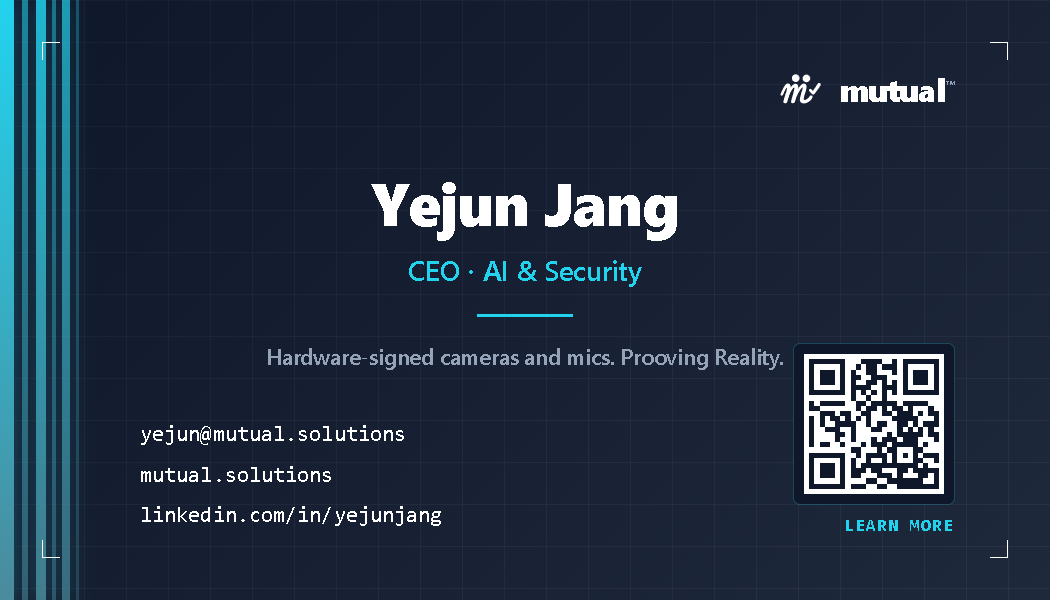
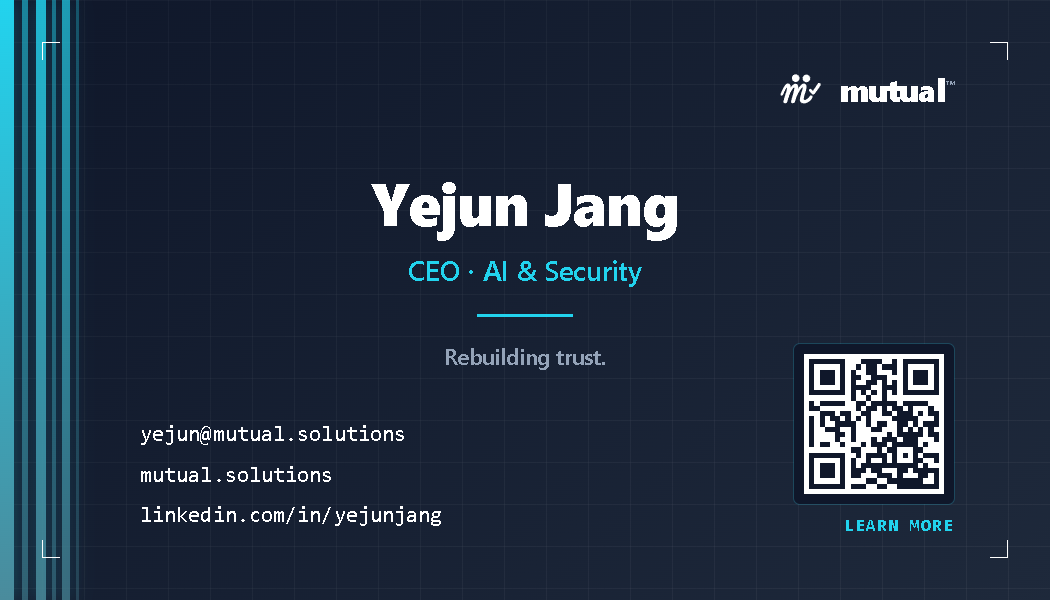
Lab Edge · slogan → 'Rebuilding trust.'
Was: 'Hardware-signed cameras and mics. Prooving Reality.'
Now: 'Rebuilding trust.'

Cleaner two-word line under the divider on the English front.

Changed region(s): [[0.2438, 0.57, 0.7314, 0.63]]

diff --git a/.canva-build/v-tech-edge-capture-front-alex.html b/.canva-build/v-tech-edge-capture-front-alex.html
@@ -33,7 +33,7 @@ html,body{width:1050px;height:600px;background:#020617;font-family:'Inter','Sego
     <div style="font-weight:800;font-size:60px;letter-spacing:-1.8px;color:#fff;line-height:1">Jihoon (Alex) Park</div>
     <div style="margin-top:18px;font-weight:600;font-size:28px;color:#22d3ee;letter-spacing:-0.3px">CTO · Hardware</div>
     <div style="margin:26px auto 0;width:96px;height:3px;background:#22d3ee"></div>
-    <div style="margin-top:24px;padding:0 96px;font-weight:500;font-size:22px;color:#94a3b8;letter-spacing:-0.2px;line-height:1.4;font-family:'Playfair Display','Georgia','Times New Roman',serif;">Hardware-signed cameras and mics. Prooving Reality.</div>
+    <div style="margin-top:24px;padding:0 96px;font-weight:500;font-size:22px;color:#94a3b8;letter-spacing:-0.2px;line-height:1.4;font-family:'Playfair Display','Georgia','Times New Roman',serif;">Rebuilding trust.</div>
   </div>
 
   <!-- contact mono block (URLs/emails are language-neutral identifiers) -->

diff --git a/.canva-build/v-tech-edge-fek1-front-alex.html b/.canva-build/v-tech-edge-fek1-front-alex.html
@@ -33,7 +33,7 @@ html,body{width:1050px;height:600px;background:#020617;font-family:'Inter','Sego
     <div style="font-weight:800;font-size:60px;letter-spacing:-1.8px;color:#fff;line-height:1">Jihoon (Alex) Park</div>
     <div style="margin-top:18px;font-weight:600;font-size:28px;color:#22d3ee;letter-spacing:-0.3px">CTO · Hardware</div>
     <div style="margin:26px auto 0;width:96px;height:3px;background:#22d3ee"></div>
-    <div style="margin-top:24px;padding:0 96px;font-weight:500;font-size:22px;color:#94a3b8;letter-spacing:-0.2px;line-height:1.4;font-family:'Playfair Display','Georgia','Times New Roman',serif;">Hardware-signed cameras and mics. Prooving Reality.</div>
+    <div style="margin-top:24px;padding:0 96px;font-weight:500;font-size:22px;color:#94a3b8;letter-spacing:-0.2px;line-height:1.4;font-family:'Playfair Display','Georgia','Times New Roman',serif;">Rebuilding trust.</div>
   </div>
 
   <!-- contact mono block (URLs/emails are language-neutral identifiers) -->

diff --git a/.canva-build/v-tech-edge-capture-front-yejun.html b/.canva-build/v-tech-edge-capture-front-yejun.html
@@ -33,7 +33,7 @@ html,body{width:1050px;height:600px;background:#020617;font-family:'Inter','Sego
     <div style="font-weight:800;font-size:60px;letter-spacing:-1.8px;color:#fff;line-height:1">Yejun Jang</div>
     <div style="margin-top:18px;font-weight:600;font-size:28px;color:#22d3ee;letter-spacing:-0.3px">CEO · AI & Security</div>
     <div style="margin:26px auto 0;width:96px;height:3px;background:#22d3ee"></div>
-    <div style="margin-top:24px;padding:0 96px;font-weight:500;font-size:22px;color:#94a3b8;letter-spacing:-0.2px;line-height:1.4;font-family:'Playfair Display','Georgia','Times New Roman',serif;">Hardware-signed cameras and mics. Prooving Reality.</div>
+    <div style="margin-top:24px;padding:0 96px;font-weight:500;font-size:22px;color:#94a3b8;letter-spacing:-0.2px;line-height:1.4;font-family:'Playfair Display','Georgia','Times New Roman',serif;">Rebuilding trust.</div>
   </div>
 
   <!-- contact mono block (URLs/emails are language-neutral identifiers) -->

diff --git a/.canva-build/v-tech-edge-fek1-front-yejun.html b/.canva-build/v-tech-edge-fek1-front-yejun.html
@@ -33,7 +33,7 @@ html,body{width:1050px;height:600px;background:#020617;font-family:'Inter','Sego
     <div style="font-weight:800;font-size:60px;letter-spacing:-1.8px;color:#fff;line-height:1">Yejun Jang</div>
     <div style="margin-top:18px;font-weight:600;font-size:28px;color:#22d3ee;letter-spacing:-0.3px">CEO · AI & Security</div>
     <div style="margin:26px auto 0;width:96px;height:3px;background:#22d3ee"></div>
-    <div style="margin-top:24px;padding:0 96px;font-weight:500;font-size:22px;color:#94a3b8;letter-spacing:-0.2px;line-height:1.4;font-family:'Playfair Display','Georgia','Times New Roman',serif;">Hardware-signed cameras and mics. Prooving Reality.</div>
+    <div style="margin-top:24px;padding:0 96px;font-weight:500;font-size:22px;color:#94a3b8;letter-spacing:-0.2px;line-height:1.4;font-family:'Playfair Display','Georgia','Times New Roman',serif;">Rebuilding trust.</div>
   </div>
 
   <!-- contact mono block (URLs/emails are language-neutral identifiers) -->

diff --git a/.canva-build/v-tech-edge-dual-front-alex.html b/.canva-build/v-tech-edge-dual-front-alex.html
@@ -31,7 +31,7 @@ html,body{width:1050px;height:600px;background:#0f172a;font-family:'Inter','Sego
     <div style="font-weight:800;font-size:60px;letter-spacing:-1.8px;color:#fff;line-height:1">Jihoon (Alex) Park</div>
     <div style="margin-top:18px;font-weight:600;font-size:28px;color:#22d3ee;letter-spacing:-0.3px">CTO · Hardware</div>
     <div style="margin:26px auto 0;width:96px;height:3px;background:#22d3ee"></div>
-    <div style="margin-top:24px;padding:0 96px;font-weight:500;font-size:22px;color:#94a3b8;letter-spacing:-0.2px;line-height:1.4;">Hardware-signed cameras and mics. Prooving Reality.</div>
+    <div style="margin-top:24px;padding:0 96px;font-weight:500;font-size:22px;color:#94a3b8;letter-spacing:-0.2px;line-height:1.4;">Rebuilding trust.</div>
   </div>
 
   <!-- contact mono block (URLs/emails are language-neutral identifiers) -->

diff --git a/.canva-build/v-tech-edge-frame-front-alex.html b/.canva-build/v-tech-edge-frame-front-alex.html
@@ -36,7 +36,7 @@ html,body{width:1050px;height:600px;background:#0f172a;font-family:'Inter','Sego
     <div style="font-weight:800;font-size:60px;letter-spacing:-1.8px;color:#fff;line-height:1">Jihoon (Alex) Park</div>
     <div style="margin-top:18px;font-weight:600;font-size:28px;color:#22d3ee;letter-spacing:-0.3px">CTO · Hardware</div>
     <div style="margin:26px auto 0;width:96px;height:3px;background:#22d3ee"></div>
-    <div style="margin-top:24px;padding:0 96px;font-weight:500;font-size:22px;color:#94a3b8;letter-spacing:-0.2px;line-height:1.4;">Hardware-signed cameras and mics. Prooving Reality.</div>
+    <div style="margin-top:24px;padding:0 96px;font-weight:500;font-size:22px;color:#94a3b8;letter-spacing:-0.2px;line-height:1.4;">Rebuilding trust.</div>
   </div>
 
   <!-- contact mono block (URLs/emails are language-neutral identifiers) -->

diff --git a/.canva-build/v-tech-edge-halo-front-alex.html b/.canva-build/v-tech-edge-halo-front-alex.html
@@ -33,7 +33,7 @@ html,body{width:1050px;height:600px;background:#0f172a;font-family:'Inter','Sego
     <div style="font-weight:800;font-size:60px;letter-spacing:-1.8px;color:#fff;line-height:1">Jihoon (Alex) Park</div>
     <div style="margin-top:18px;font-weight:600;font-size:28px;color:#22d3ee;letter-spacing:-0.3px">CTO · Hardware</div>
     <div style="margin:26px auto 0;width:96px;height:3px;background:#22d3ee"></div>
-    <div style="margin-top:24px;padding:0 96px;font-weight:500;font-size:22px;color:#94a3b8;letter-spacing:-0.2px;line-height:1.4;">Hardware-signed cameras and mics. Prooving Reality.</div>
+    <div style="margin-top:24px;padding:0 96px;font-weight:500;font-size:22px;color:#94a3b8;letter-spacing:-0.2px;line-height:1.4;">Rebuilding trust.</div>
   </div>
 
   <!-- contact mono block (URLs/emails are language-neutral identifiers) -->

diff --git a/.canva-build/v-tech-edge-notch-front-alex.html b/.canva-build/v-tech-edge-notch-front-alex.html
@@ -39,7 +39,7 @@ html,body{width:1050px;height:600px;background:#0f172a;font-family:'Inter','Sego
     <div style="font-weight:800;font-size:60px;letter-spacing:-1.8px;color:#fff;line-height:1">Jihoon (Alex) Park</div>
     <div style="margin-top:18px;font-weight:600;font-size:28px;color:#22d3ee;letter-spacing:-0.3px">CTO · Hardware</div>
     <div style="margin:26px auto 0;width:96px;height:3px;background:#22d3ee"></div>
-    <div style="margin-top:24px;padding:0 96px;font-weight:500;font-size:22px;color:#94a3b8;letter-spacing:-0.2px;line-height:1.4;">Hardware-signed cameras and mics. Prooving Reality.</div>
+    <div style="margin-top:24px;padding:0 96px;font-weight:500;font-size:22px;color:#94a3b8;letter-spacing:-0.2px;line-height:1.4;">Rebuilding trust.</div>
   </div>
 
   <!-- contact mono block (URLs/emails are language-neutral identifiers) -->

diff --git a/.canva-build/v-tech-edge-pulse-front-alex.html b/.canva-build/v-tech-edge-pulse-front-alex.html
@@ -29,7 +29,7 @@ html,body{width:1050px;height:600px;background:#0f172a;font-family:'Inter','Sego
     <div style="font-weight:800;font-size:60px;letter-spacing:-1.8px;color:#fff;line-height:1">Jihoon (Alex) Park</div>
     <div style="margin-top:18px;font-weight:600;font-size:28px;color:#22d3ee;letter-spacing:-0.3px">CTO · Hardware</div>
     <div style="margin:26px auto 0;width:96px;height:3px;background:#22d3ee"></div>
-    <div style="margin-top:24px;padding:0 96px;font-weight:500;font-size:22px;color:#94a3b8;letter-spacing:-0.2px;line-height:1.4;">Hardware-signed cameras and mics. Prooving Reality.</div>
+    <div style="margin-top:24px;padding:0 96px;font-weight:500;font-size:22px;color:#94a3b8;letter-spacing:-0.2px;line-height:1.4;">Rebuilding trust.</div>
   </div>
 
   <!-- contact mono block (URLs/emails are language-neutral identifiers) -->

diff --git a/.canva-build/v-tech-edge-stack-front-alex.html b/.canva-build/v-tech-edge-stack-front-alex.html
@@ -29,7 +29,7 @@ html,body{width:1050px;height:600px;background:#0f172a;font-family:'Inter','Sego
     <div style="font-weight:800;font-size:60px;letter-spacing:-1.8px;color:#fff;line-height:1">Jihoon (Alex) Park</div>
     <div style="margin-top:18px;font-weight:600;font-size:28px;color:#22d3ee;letter-spacing:-0.3px">CTO · Hardware</div>
     <div style="margin:26px auto 0;width:96px;height:3px;background:#22d3ee"></div>
-    <div style="margin-top:24px;padding:0 96px;font-weight:500;font-size:22px;color:#94a3b8;letter-spacing:-0.2px;line-height:1.4;">Hardware-signed cameras and mics. Prooving Reality.</div>
+    <div style="margin-top:24px;padding:0 96px;font-weight:500;font-size:22px;color:#94a3b8;letter-spacing:-0.2px;line-height:1.4;">Rebuilding trust.</div>
   </div>
 
   <!-- contact mono block (URLs/emails are language-neutral identifiers) -->

diff --git a/.canva-build/v-tech-edge-dual-front-yejun.html b/.canva-build/v-tech-edge-dual-front-yejun.html
@@ -31,7 +31,7 @@ html,body{width:1050px;height:600px;background:#0f172a;font-family:'Inter','Sego
     <div style="font-weight:800;font-size:60px;letter-spacing:-1.8px;color:#fff;line-height:1">Yejun Jang</div>
     <div style="margin-top:18px;font-weight:600;font-size:28px;color:#22d3ee;letter-spacing:-0.3px">CEO · AI & Security</div>
     <div style="margin:26px auto 0;width:96px;height:3px;background:#22d3ee"></div>
-    <div style="margin-top:24px;padding:0 96px;font-weight:500;font-size:22px;color:#94a3b8;letter-spacing:-0.2px;line-height:1.4;">Hardware-signed cameras and mics. Prooving Reality.</div>
+    <div style="margin-top:24px;padding:0 96px;font-weight:500;font-size:22px;color:#94a3b8;letter-spacing:-0.2px;line-height:1.4;">Rebuilding trust.</div>
   </div>
 
   <!-- contact mono block (URLs/emails are language-neutral identifiers) -->

diff --git a/.canva-build/v-tech-edge-frame-front-yejun.html b/.canva-build/v-tech-edge-frame-front-yejun.html
@@ -36,7 +36,7 @@ html,body{width:1050px;height:600px;background:#0f172a;font-family:'Inter','Sego
     <div style="font-weight:800;font-size:60px;letter-spacing:-1.8px;color:#fff;line-height:1">Yejun Jang</div>
     <div style="margin-top:18px;font-weight:600;font-size:28px;color:#22d3ee;letter-spacing:-0.3px">CEO · AI & Security</div>
     <div style="margin:26px auto 0;width:96px;height:3px;background:#22d3ee"></div>
-    <div style="margin-top:24px;padding:0 96px;font-weight:500;font-size:22px;color:#94a3b8;letter-spacing:-0.2px;line-height:1.4;">Hardware-signed cameras and mics. Prooving Reality.</div>
+    <div style="margin-top:24px;padding:0 96px;font-weight:500;font-size:22px;color:#94a3b8;letter-spacing:-0.2px;line-height:1.4;">Rebuilding trust.</div>
   </div>
 
   <!-- contact mono block (URLs/emails are language-neutral identifiers) -->
